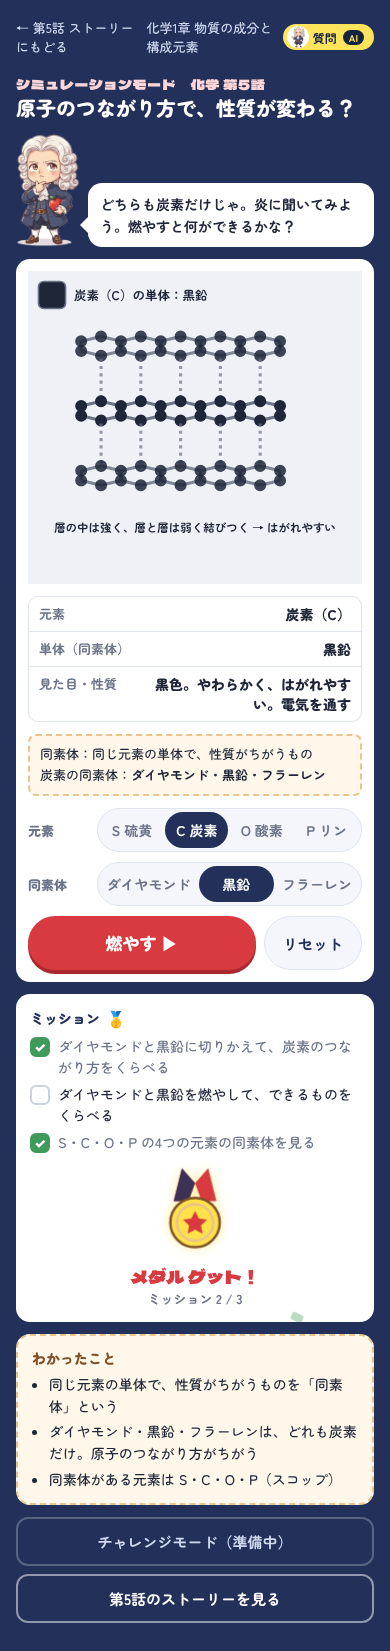
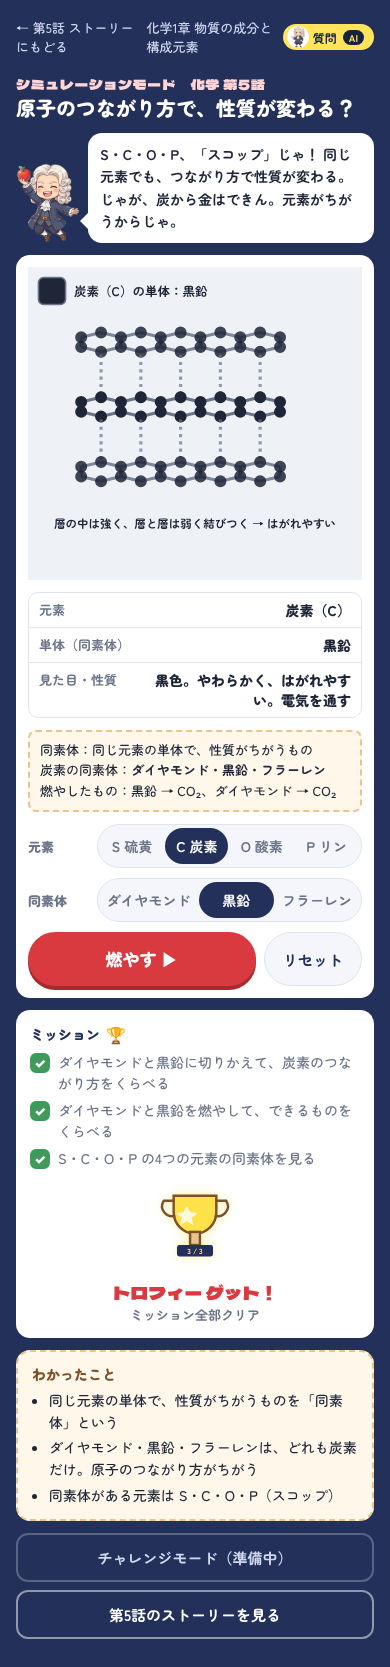
T-42（途中）: 化学のシミュ 第5〜8話
Claude-Session: https://claude.ai/code/session_011omp4Mg4wi1i7SftFg17Rj

diff --git a/sim/chem-allotrope.html b/sim/chem-allotrope.html
@@ -432,8 +432,10 @@ function show(){
   const others = EL[elKey].list.map(x => x.name).join('・');
   $('formula').innerHTML = '同素体：同じ元素の単体で、性質がちがうもの<br>' + EL[elKey].name + 'の同素体：<b>' + others + '</b>' +
     (Object.keys(burned).length ? '<br>燃やしたもの：' + Object.keys(burned).map(k => EL.C.list.find(x => x.k === k).name + ' → CO₂').join('、') : '');
+  if (play.raf) return;                    // 燃やしている間は、ボタンをそのままにする
   $('go').disabled = elKey !== 'C';
-  $('go').textContent = elKey === 'C' ? '燃やす ▶' : '燃やす（炭素だけ）';
+  if (elKey !== 'C') $('go').textContent = '燃やす（炭素だけ）';
+  else if ($('go').textContent.indexOf('炭素だけ') >= 0) $('go').textContent = '燃やす ▶';
 }
 
 function talk(){
